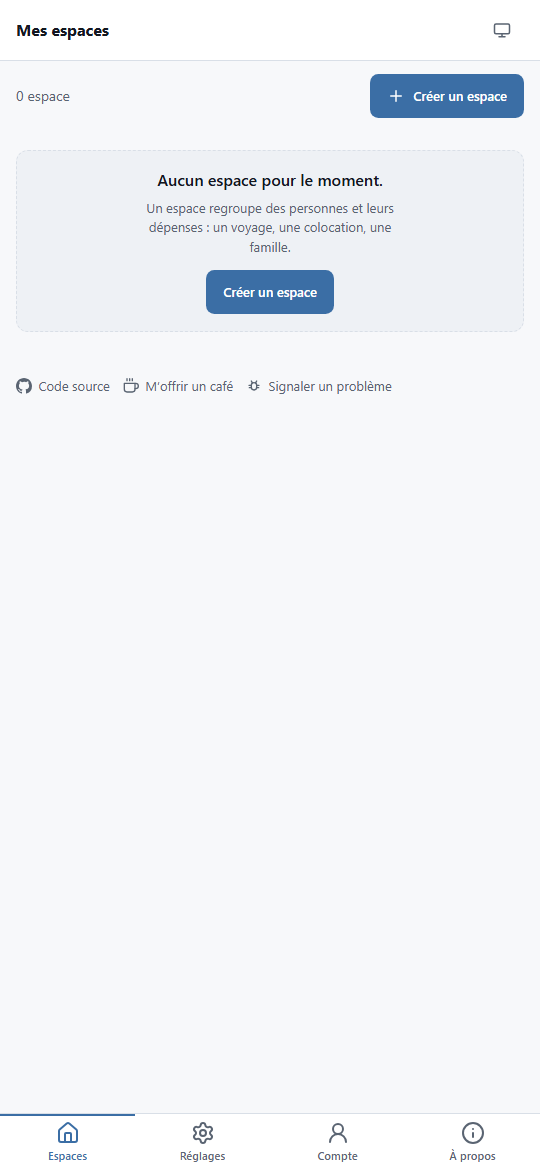
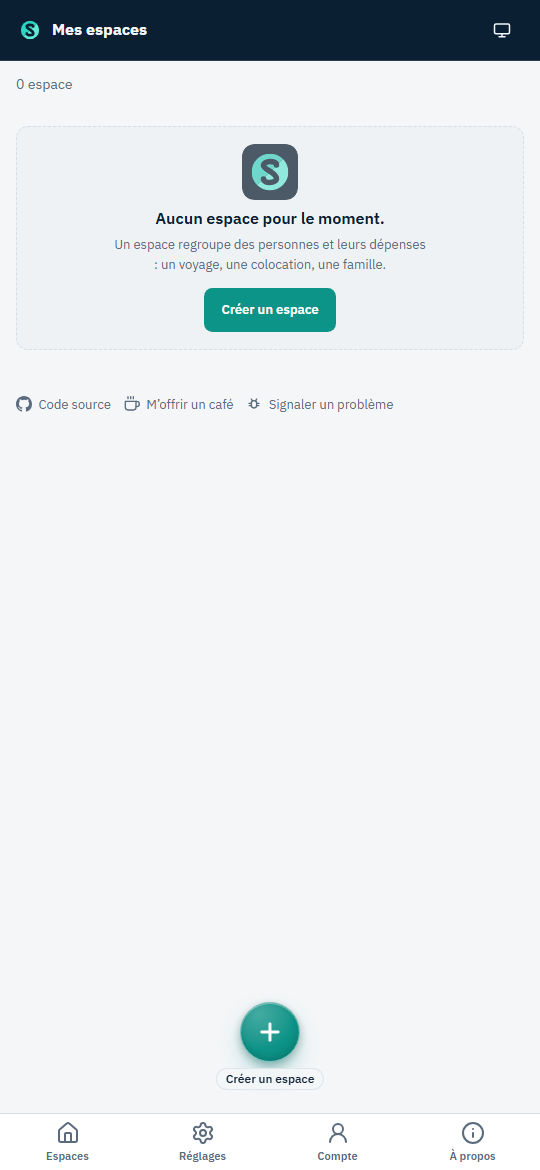
feat(ui): surfaces d'identité Ledger (wordmark, vides, à propos, OG)
Wordmark hors session, S en états vides, héros À propos, theme-color splash
aligné navy, og-image et captures manifeste régénérés.

diff --git a/src/App.tsx b/src/App.tsx
@@ -52,6 +52,7 @@ import { useI18n } from './i18n/index.ts';
 import { isRemote } from './backend/index.ts';
 import { syncStatusOf, useSyncState } from './backend/sync-state.ts';
 import { BrandMark } from './components/BrandMark.tsx';
+import { Wordmark } from './components/Wordmark.tsx';
 import { HomeScreen } from './features/spaces/HomeScreen.tsx';
 import { SpaceShell } from './features/spaces/SpaceShell.tsx';
 import { useSpaces } from './features/spaces/store.ts';
@@ -374,12 +375,16 @@ export function Shell() {
       ]
     : appNav;
 
+  // Hors session sur `/`, le h1 EST le wordmark (logo + nom) : pas de leading
+  // BrandMark en plus, sinon le glyphe se répéterait.
+  const wordmarkHome = Boolean(horsSession && matchPath('/', pathname));
+
   const title = (() => {
     // Hors session, l'accueil n'a pas d'espaces à montrer : « Mes espaces »
     // y était un titre vide de sens, et le h1 de la page que lit un moteur
-    // (relevé du 23/09/2026). Le nom de l'app le remplace.
+    // (relevé du 23/09/2026). Le wordmark le remplace.
     if (matchPath('/', pathname))
-      return horsSession ? t('spaces.publicTitle') : t('spaces.title');
+      return horsSession ? <Wordmark /> : t('spaces.title');
     if (matchPath('/espaces/nouveau', pathname)) return t('newSpace.title');
     if (matchPath('/reglages', pathname)) return t('settings.title');
     if (matchPath('/compte', pathname)) return t('account.title');
@@ -434,11 +439,12 @@ export function Shell() {
 
       <AppHeader
         title={title}
-        leading={<BrandMark />}
+        leading={wordmarkHome ? undefined : <BrandMark />}
         actions={
           <>
             {/*
-              LE RETOUR À L'ACCUEIL VIT DANS LA MARQUE (`BrandMark` → `/`).
+              LE RETOUR À L'ACCUEIL VIT DANS LA MARQUE (`BrandMark` → `/`),
+              sauf sur l'accueil hors session où le wordmark tient déjà le h1.
               Avant, une icône maison dans les actions ne s'affichait QUE
               dans un espace ; le logo le fait partout, sans doubler l'entrée
               « Espaces » de la barre basse (refusée par l'e2e).

diff --git a/src/features/about/AboutScreen.tsx b/src/features/about/AboutScreen.tsx
@@ -1,13 +1,14 @@
-import { Card, CardHeader } from '@mister-guiiug/dev-pwa-config/react/card';
+import { Card } from '@mister-guiiug/dev-pwa-config/react/card';
 import { FamilyApps } from '@mister-guiiug/dev-pwa-config/react/family-apps';
 import { PwaInstallPrompt } from '@mister-guiiug/dev-pwa-config/react/pwa-install-prompt';
 import { AppFooter } from '@mister-guiiug/dev-pwa-config/react/app-footer';
 import { useI18n } from '../../i18n/index.ts';
 import { APP_ID, REPO_URL } from '../../app/links.ts';
+import { BrandGlyph } from '../../components/BrandGlyph.tsx';
 
 /**
- * L'écran « à propos » : les autres apps de la famille et le pied de page —
- * code source, soutien, signalement.
+ * L'écran « à propos » : héros de marque, les autres apps de la famille et
+ * le pied de page — code source, soutien, signalement.
  *
  * `FamilyApps` est donné par le socle. Le lien du dépôt vient
  * de `repoUrl(APP_ID)` et le lien de soutien du catalogue : neuf apps sur neuf
@@ -38,9 +39,10 @@ export function AboutScreen() {
     <div className="flex flex-col gap-4">
       <PwaInstallPrompt />
 
-      <Card>
-        <CardHeader title={t('about.title')} subtitle={t('app.tagline')} />
-        <p className="m-0">{t('about.what')}</p>
+      <Card className="settle-about-hero">
+        <BrandGlyph size={72} className="settle-about-mark" />
+        <p className="settle-about-promise">{t('app.promise')}</p>
+        <p className="m-0 settle-about-what">{t('about.what')}</p>
       </Card>
 
       {/* PLUS DE CARTE « VERSION ». Le numéro portait un lien vers

diff --git a/src/features/expenses/ExpenseWizardScreen.tsx b/src/features/expenses/ExpenseWizardScreen.tsx
@@ -8,7 +8,7 @@ import {
 import { createUuid } from '@mister-guiiug/dev-pwa-config/id';
 import { GESTES, trackEvent } from '@mister-guiiug/dev-pwa-config/analytics';
 import { Button } from '@mister-guiiug/dev-pwa-config/react/button';
-import { EmptyState } from '@mister-guiiug/dev-pwa-config/react/empty-state';
+import { SettleEmptyState } from '../../components/SettleEmptyState.tsx';
 import { ErrorBanner } from '@mister-guiiug/dev-pwa-config/react/error-banner';
 import { SkeletonGroup } from '@mister-guiiug/dev-pwa-config/react/skeleton';
 import { useToast } from '@mister-guiiug/dev-pwa-config/react/toast';
@@ -98,7 +98,9 @@ export function ExpenseWizardScreen({ mode }: { mode: WizardMode }) {
     </Link>
   );
   if (!rights.contribute || space.archivedAt) {
-    return <EmptyState title={t('expense.contributorOnly')} action={back} />;
+    return (
+      <SettleEmptyState title={t('expense.contributorOnly')} action={back} />
+    );
   }
 
   const active = participants.filter(p => !p.archivedAt).sort(byPosition);
@@ -112,7 +114,7 @@ export function ExpenseWizardScreen({ mode }: { mode: WizardMode }) {
   const sourceId = mode === 'new' ? searchParams.get('depuis') : expenseId;
   const source = sourceId ? expenses.find(e => e.id === sourceId) : undefined;
   if (mode !== 'new' && !source) {
-    return <EmptyState title={t('expense.notFound')} action={back} />;
+    return <SettleEmptyState title={t('expense.notFound')} action={back} />;
   }
   const today = todayIso();
   const mine = active.find(p => p.linkedUserId === me) ?? active[0];

diff --git a/src/i18n/messages.ts b/src/i18n/messages.ts
@@ -17,6 +17,8 @@ const fr = {
   app: {
     name: 'Mister Settle',
     tagline: 'Qui a payé, qui doit combien — sans toucher à l’argent.',
+    /** Phrase courte de marque — À propos, OG ; pas un sous-titre de navigation. */
+    promise: 'Calcule. Ne paie jamais.',
   },
   nav: {
     stats: 'Statistiques',
@@ -47,8 +49,6 @@ const fr = {
     unknown: 'Une erreur est survenue : {detail}',
   },
   spaces: {
-    /** Titre de l'accueil tant qu'on n'est pas connecté : il n'y a pas encore d'espaces à soi. */
-    publicTitle: 'Mister Settle',
     pitch:
       'Partagez les dépenses entre proches : qui a payé, qui doit combien, et les remboursements qui soldent tout. Sans paiement, sur invitation.',
     signInTitle: 'Connectez-vous pour retrouver vos espaces.',
@@ -709,6 +709,7 @@ const en: typeof fr = {
   app: {
     name: 'Mister Settle',
     tagline: 'Who paid, who owes what — without touching the money.',
+    promise: 'It calculates. It never pays.',
   },
   nav: {
     stats: 'Statistics',
@@ -739,7 +740,6 @@ const en: typeof fr = {
     unknown: 'Something went wrong: {detail}',
   },
   spaces: {
-    publicTitle: 'Mister Settle',
     pitch:
       'Share expenses with the people close to you: who paid, who owes what, and the repayments that settle everything. No payments, invitation only.',
     signInTitle: 'Sign in to find your spaces.',

diff --git a/src/index.css b/src/index.css
@@ -163,6 +163,63 @@ a.settle-brand:focus-visible {
   border-radius: calc(28px * 14 / 64);
 }
 
+/* Wordmark dans le h1 hors session : glyphe + nom, une seule ligne. */
+.settle-wordmark {
+  display: inline-flex;
+  align-items: center;
+  gap: 0.55rem;
+  min-width: 0;
+}
+
+.settle-wordmark-name {
+  overflow: hidden;
+  text-overflow: ellipsis;
+  white-space: nowrap;
+  font-weight: 600;
+  letter-spacing: -0.02em;
+}
+
+/* Filigrane S dans les états vides — pastille assourdie, pas un emoji. */
+.settle-empty-mark {
+  display: inline-flex;
+  opacity: 0.72;
+  filter: saturate(0.85);
+}
+
+.settle-empty-mark .settle-brand-mark {
+  border-radius: calc(56px * 14 / 64);
+}
+
+/* Héros « À propos » : marque + promesse courte. */
+.settle-about-hero {
+  display: flex;
+  flex-direction: column;
+  align-items: center;
+  gap: 0.75rem;
+  text-align: center;
+  padding-block: 1.25rem;
+}
+
+.settle-about-mark {
+  display: block;
+  border-radius: calc(72px * 14 / 64);
+}
+
+.settle-about-promise {
+  margin: 0;
+  font-size: 1.25rem;
+  font-weight: 700;
+  letter-spacing: -0.02em;
+  color: var(--dwc-text);
+}
+
+.settle-about-what {
+  max-width: 42ch;
+  color: var(--dwc-text-soft);
+  font-size: 0.95rem;
+  line-height: 1.45;
+}
+
 /* Montants et soldes : mono tabular, alignement comptable. */
 .settle-amount {
   font-family: var(--font-mono);

diff --git a/src/features/spaces/HomeScreen.tsx b/src/features/spaces/HomeScreen.tsx
@@ -3,7 +3,7 @@ import { Link, useNavigate } from 'react-router-dom';
 import { Button } from '@mister-guiiug/dev-pwa-config/react/button';
 import { Card } from '@mister-guiiug/dev-pwa-config/react/card';
 import { Badge } from '@mister-guiiug/dev-pwa-config/react/badge';
-import { EmptyState } from '@mister-guiiug/dev-pwa-config/react/empty-state';
+import { SettleEmptyState } from '../../components/SettleEmptyState.tsx';
 import { ErrorBanner } from '@mister-guiiug/dev-pwa-config/react/error-banner';
 import { SkeletonGroup } from '@mister-guiiug/dev-pwa-config/react/skeleton';
 import { AppFooter } from '@mister-guiiug/dev-pwa-config/react/app-footer';
@@ -87,7 +87,7 @@ export function HomeScreen() {
     return (
       <>
         <p className="m-0 text-base">{t('spaces.pitch')}</p>
-        <EmptyState
+        <SettleEmptyState
           title={t('spaces.signInTitle')}
           description={t('spaces.signInBody')}
           className="mt-8"
@@ -136,7 +136,7 @@ export function HomeScreen() {
       {!ready ? (
         <SkeletonGroup label={t('spaces.loading')} lines={3} className="mt-6" />
       ) : open.length === 0 ? (
-        <EmptyState
+        <SettleEmptyState
           title={t('spaces.empty')}
           description={t('spaces.emptyHint')}
           className="mt-8"

diff --git a/src/features/invitations/InvitationsScreen.tsx b/src/features/invitations/InvitationsScreen.tsx
@@ -4,7 +4,7 @@ import { Badge } from '@mister-guiiug/dev-pwa-config/react/badge';
 import { Button } from '@mister-guiiug/dev-pwa-config/react/button';
 import { Card, CardHeader } from '@mister-guiiug/dev-pwa-config/react/card';
 import { ConfirmDialog } from '@mister-guiiug/dev-pwa-config/react/confirm-dialog';
-import { EmptyState } from '@mister-guiiug/dev-pwa-config/react/empty-state';
+import { SettleEmptyState } from '../../components/SettleEmptyState.tsx';
 import { ErrorBanner } from '@mister-guiiug/dev-pwa-config/react/error-banner';
 import {
   SelectField,
@@ -60,7 +60,7 @@ export function InvitationsScreen() {
   if (!space) return null;
   if (!isRemote) {
     return (
-      <EmptyState
+      <SettleEmptyState
         title={t('invitations.localTitle')}
         description={t('invitations.localBody')}
       />
@@ -68,7 +68,7 @@ export function InvitationsScreen() {
   }
   const rights = can(space.myRole);
   if (!rights.admin) {
-    return <EmptyState title={t('invitations.adminOnly')} />;
+    return <SettleEmptyState title={t('invitations.adminOnly')} />;
   }
   const unlinked = participants
     .filter(p => !p.archivedAt && !p.linkedUserId)

diff --git a/src/features/people/GroupsScreen.tsx b/src/features/people/GroupsScreen.tsx
@@ -3,7 +3,7 @@ import { Archive, ArchiveRestore, Pencil, Plus, Trash2 } from 'lucide-react';
 import { Button } from '@mister-guiiug/dev-pwa-config/react/button';
 import { Card } from '@mister-guiiug/dev-pwa-config/react/card';
 import { ConfirmDialog } from '@mister-guiiug/dev-pwa-config/react/confirm-dialog';
-import { EmptyState } from '@mister-guiiug/dev-pwa-config/react/empty-state';
+import { SettleEmptyState } from '../../components/SettleEmptyState.tsx';
 import { ErrorBanner } from '@mister-guiiug/dev-pwa-config/react/error-banner';
 import { TextField } from '@mister-guiiug/dev-pwa-config/react/field';
 import { Sheet } from '@mister-guiiug/dev-pwa-config/react/sheet';
@@ -137,7 +137,7 @@ export function GroupsScreen() {
       {!ready ? (
         <SkeletonGroup label={t('people.loading')} lines={3} />
       ) : active.length === 0 ? (
-        <EmptyState
+        <SettleEmptyState
           title={t('groups.empty')}
           description={t('groups.emptyHint')}
         />

diff --git a/src/features/expenses/ExpenseDetailScreen.tsx b/src/features/expenses/ExpenseDetailScreen.tsx
@@ -4,7 +4,7 @@ import { Badge } from '@mister-guiiug/dev-pwa-config/react/badge';
 import { Button } from '@mister-guiiug/dev-pwa-config/react/button';
 import { Card, CardHeader } from '@mister-guiiug/dev-pwa-config/react/card';
 import { ConfirmDialog } from '@mister-guiiug/dev-pwa-config/react/confirm-dialog';
-import { EmptyState } from '@mister-guiiug/dev-pwa-config/react/empty-state';
+import { SettleEmptyState } from '../../components/SettleEmptyState.tsx';
 import { ErrorBanner } from '@mister-guiiug/dev-pwa-config/react/error-banner';
 import { SkeletonGroup } from '@mister-guiiug/dev-pwa-config/react/skeleton';
 import { Stat } from '@mister-guiiug/dev-pwa-config/react/stat';
@@ -58,7 +58,7 @@ export function ExpenseDetailScreen() {
   const expense = expenses.find(e => e.id === expenseId);
   if (!expense) {
     return (
-      <EmptyState
+      <SettleEmptyState
         title={t('expense.notFound')}
         action={
           <Link to={listPath} className="no-underline">

diff --git a/src/features/balances/BalancesScreen.tsx b/src/features/balances/BalancesScreen.tsx
@@ -3,7 +3,7 @@ import { Link } from 'react-router-dom';
 import { Badge } from '@mister-guiiug/dev-pwa-config/react/badge';
 import { Button } from '@mister-guiiug/dev-pwa-config/react/button';
 import { Card } from '@mister-guiiug/dev-pwa-config/react/card';
-import { EmptyState } from '@mister-guiiug/dev-pwa-config/react/empty-state';
+import { SettleEmptyState } from '../../components/SettleEmptyState.tsx';
 import { ErrorBanner } from '@mister-guiiug/dev-pwa-config/react/error-banner';
 import { SegmentedControl } from '@mister-guiiug/dev-pwa-config/react/segmented-control';
 import { SkeletonGroup } from '@mister-guiiug/dev-pwa-config/react/skeleton';
@@ -144,7 +144,7 @@ export function BalancesScreen() {
       {error ? <ErrorBanner message={<ErrorMessage error={error} />} /> : null}
 
       {validated.length === 0 ? (
-        <EmptyState
+        <SettleEmptyState
           title={t('balances.empty')}
           description={t('balances.emptyHint')}
           action={

diff --git a/src/components/BrandMark.tsx b/src/components/BrandMark.tsx
@@ -1,11 +1,15 @@
 import { Link } from 'react-router-dom';
 import { useI18n } from '../i18n/index.ts';
+import { BrandGlyph } from './BrandGlyph.tsx';
 
 /**
  * LA MARQUE DANS L'EN-TÊTE. Un seul fichier (`public/favicon.svg`) sert
  * l'onglet, le manifeste et ce leading — comme chez mister-miss-koh. Le
  * lien ramène toujours à « Mes espaces » : dans un espace, il remplace
  * l'icône maison qui doublonnait la barre.
+ *
+ * Hors session sur `/`, l'en-tête pose plutôt le `Wordmark` en `h1` et
+ * n'affiche pas ce leading — sinon le logo se répéterait.
  */
 export function BrandMark() {
   const { t } = useI18n();
@@ -16,13 +20,7 @@ export function BrandMark() {
       aria-label={t('app.name')}
       title={t('app.name')}
     >
-      <img
-        className="settle-brand-mark"
-        src={`${import.meta.env.BASE_URL}favicon.svg`}
-        width={28}
-        height={28}
-        alt=""
-      />
+      <BrandGlyph size={28} />
     </Link>
   );
 }

diff --git a/src/features/about/AboutScreen.test.tsx b/src/features/about/AboutScreen.test.tsx
@@ -1,0 +1,26 @@
+import { describe, expect, it } from 'vitest';
+import { render, screen } from '@testing-library/react';
+import type { ReactNode } from 'react';
+import { MemoryRouter } from 'react-router-dom';
+import { I18nProvider } from '../../i18n/index.ts';
+import { AboutScreen } from './AboutScreen.tsx';
+
+function Wrapper({ children }: { children: ReactNode }) {
+  localStorage.setItem('dwc_locale', 'fr');
+  return (
+    <I18nProvider>
+      <MemoryRouter>{children}</MemoryRouter>
+    </I18nProvider>
+  );
+}
+
+describe('AboutScreen', () => {
+  it('ouvre sur la promesse de marque et le glyphe', () => {
+    render(<AboutScreen />, { wrapper: Wrapper });
+    expect(screen.getByText('Calcule. Ne paie jamais.')).toBeInTheDocument();
+    expect(
+      screen.getByText(/répartit les dépenses d’un groupe/)
+    ).toBeInTheDocument();
+    expect(document.querySelector('img.settle-about-mark')).toBeTruthy();
+  });
+});
